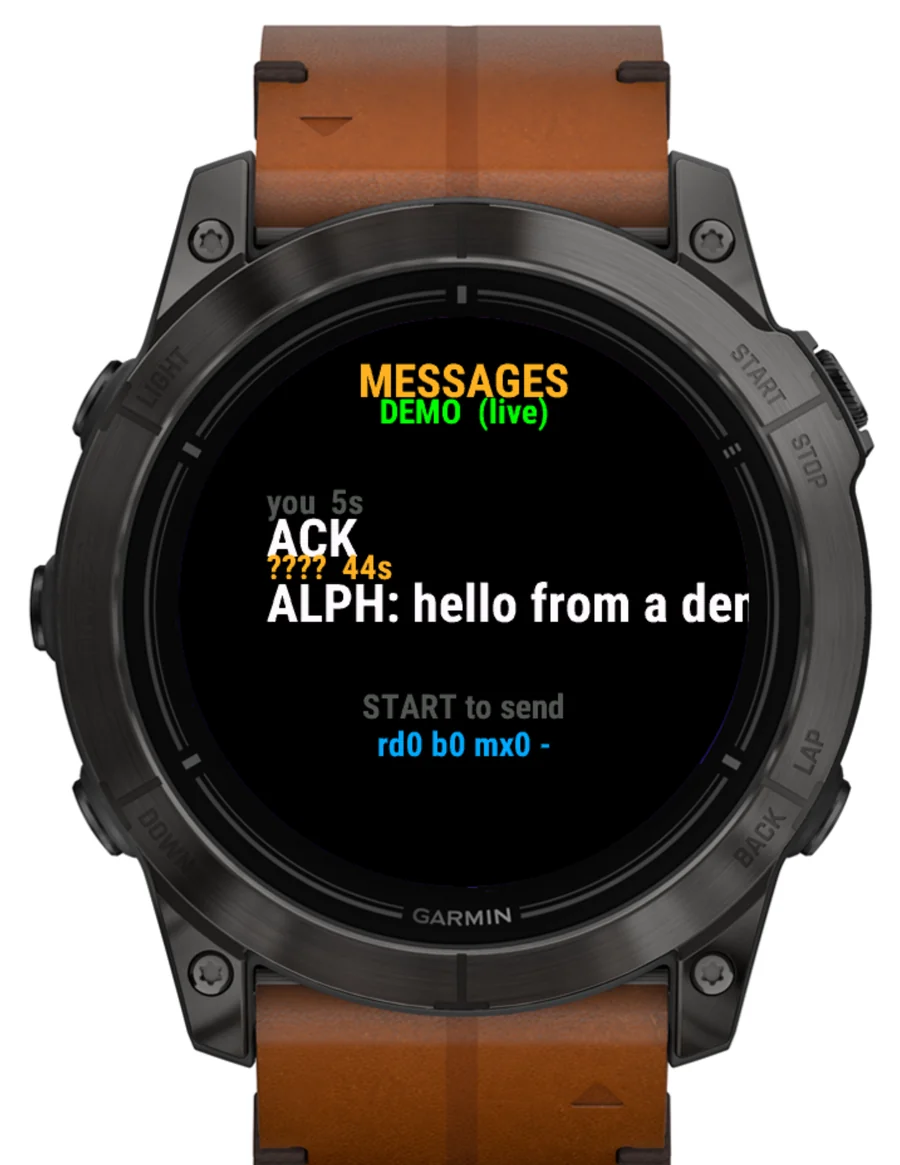
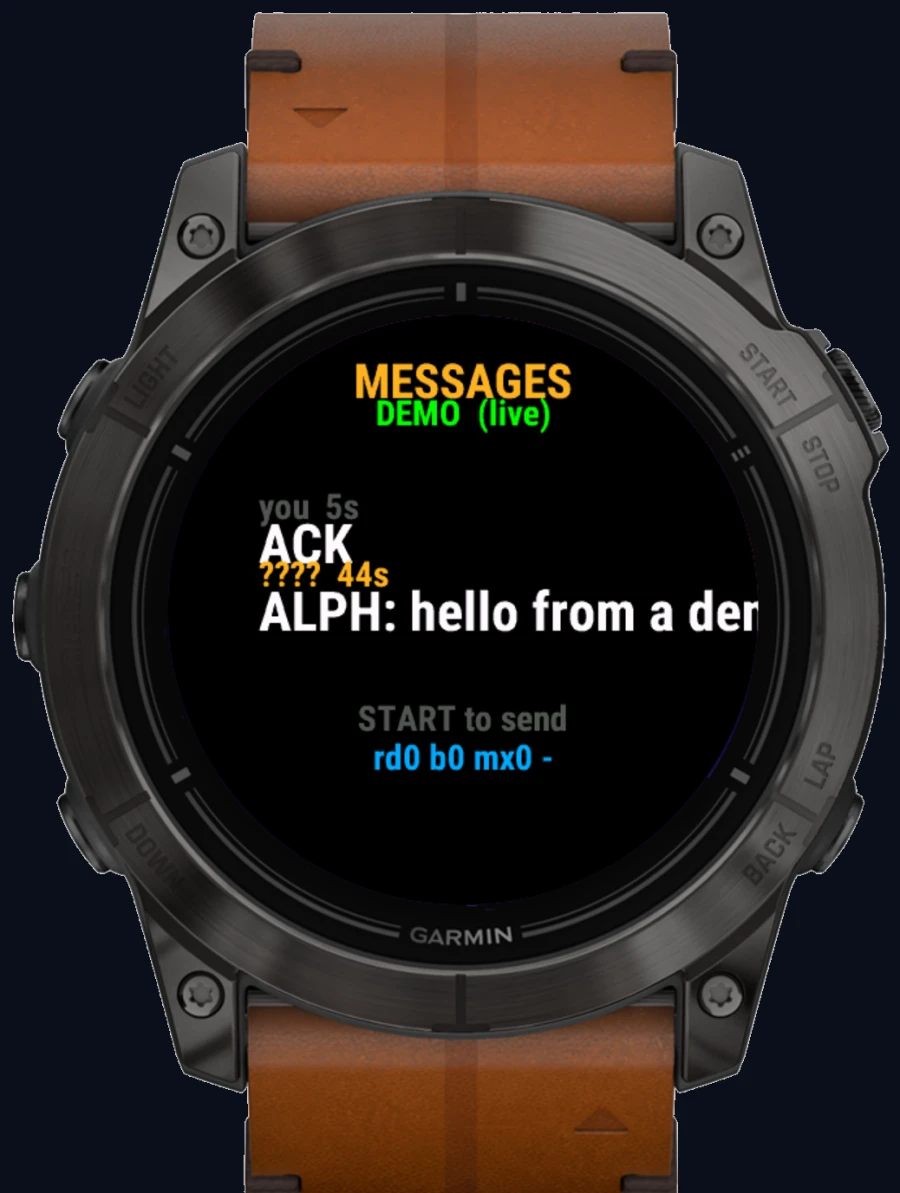
fix(shop): dark-key the meshwatch screenshots (#57)
The Connect IQ simulator renders ship on a pure white background, which
put two glaring white rectangles on a near-black page.

Background is now flood-filled from the four corners and replaced with
the site panel colour (#0a0f1a), then cropped tight to the watch. The
figure containers were given the same colour so there is no seam.

Corner-seeded rather than a global white replace, so the white text on
the watch face survives. FLOODFILL_FIXED_RANGE matters: OpenCV's default
compares each candidate to its accepted neighbour, so the fill walks down
the watch's shading gradient and eats the body and strap — the first
attempt removed 96% of the image and left a ghost outline.

Claude-Session: https://claude.ai/code/session_01Uu5vyQhhpJip7YT8fFQuf3

diff --git a/meshwatch.html b/meshwatch.html
@@ -81,11 +81,11 @@
           <article class="grid gap-10 lg:grid-cols-[1.05fr_0.95fr] items-start">
 
             <div class="grid grid-cols-2 gap-4">
-              <figure class="card-glass overflow-hidden">
+              <figure class="card-glass overflow-hidden bg-[#0a0f1a]">
                 <img src="./assets/meshwatch-nodes.webp" alt="meshwatch nodes view on a Garmin watch, showing mesh nodes with battery level and last-heard time"
                      class="w-full h-auto image-surface" width="900" height="1161" loading="eager" />
               </figure>
-              <figure class="card-glass overflow-hidden">
+              <figure class="card-glass overflow-hidden bg-[#0a0f1a]">
                 <img src="./assets/meshwatch-messages.webp" alt="meshwatch messages view on a Garmin watch, showing the recent mesh text log"
                      class="w-full h-auto image-surface" width="900" height="1165" loading="lazy" />
               </figure>
